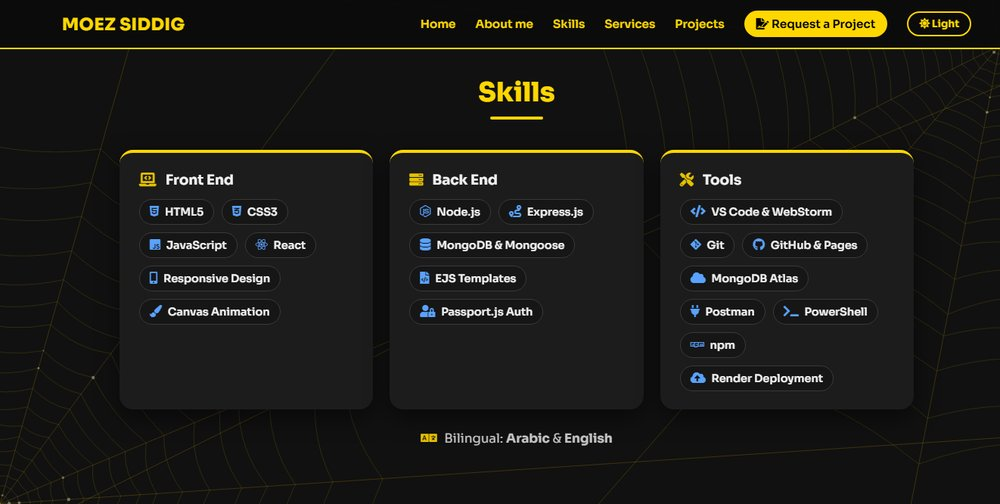
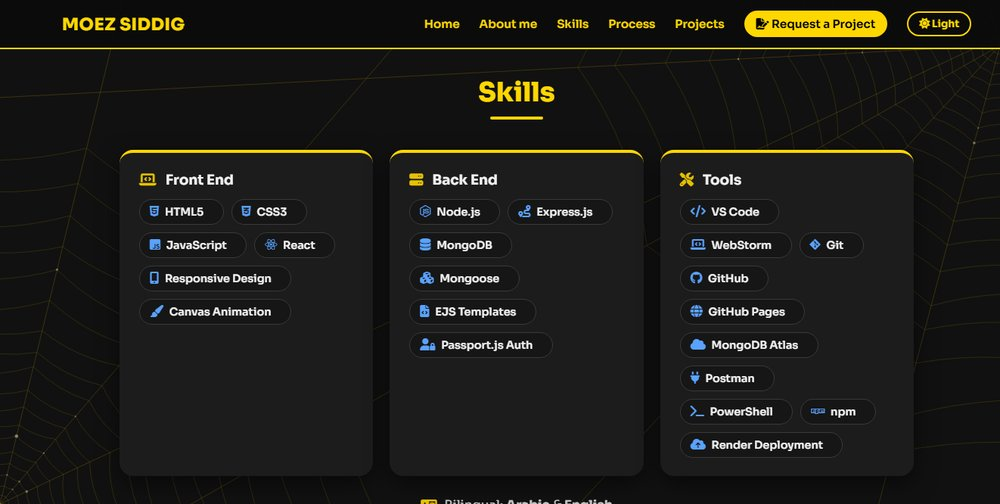
Link every skill to its official site
- 22 skill chips open the official site or MDN docs in a new tab
- Split combined chips (MongoDB/Mongoose, VS Code/WebStorm, GitHub/GitHub Pages)
- Hover: yellow chip, slight lift and a small arrow

diff --git a/index.html b/index.html
@@ -26,7 +26,7 @@
   <!-- Font Awesome icons and main CSS file -->
   <link rel="stylesheet" href="https://cdnjs.cloudflare.com/ajax/libs/font-awesome/6.5.2/css/all.min.css" />
   <!-- ?v= changes with each release so browsers never mix old cached files with the new page -->
-  <link rel="stylesheet" href="css/style.css?v=2026-11-17m"/>
+  <link rel="stylesheet" href="css/style.css?v=2026-11-17n"/>
 </head>
 <body>
   <!-- Apply the saved dark mode before the page is drawn (avoids a light flash) -->
@@ -141,38 +141,42 @@
     <div class="skills-grid">
       <div class="skill-group">
         <h3><i class="fas fa-laptop-code"></i> Front End</h3>
+        <!-- Each skill opens its official website or documentation in a new tab -->
         <ul>
-          <li><i class="fab fa-html5"></i> HTML5</li>
-          <li><i class="fab fa-css3-alt"></i> CSS3</li>
-          <li><i class="fab fa-js-square"></i> JavaScript</li>
-          <li><i class="fab fa-react"></i> React</li>
-          <li><i class="fas fa-mobile-alt"></i> Responsive Design</li>
-          <li><i class="fas fa-paint-brush"></i> Canvas Animation</li>
+          <li><a href="https://developer.mozilla.org/en-US/docs/Web/HTML" target="_blank" rel="noopener" title="HTML on MDN"><i class="fab fa-html5"></i> HTML5</a></li>
+          <li><a href="https://developer.mozilla.org/en-US/docs/Web/CSS" target="_blank" rel="noopener" title="CSS on MDN"><i class="fab fa-css3-alt"></i> CSS3</a></li>
+          <li><a href="https://developer.mozilla.org/en-US/docs/Web/JavaScript" target="_blank" rel="noopener" title="JavaScript on MDN"><i class="fab fa-js-square"></i> JavaScript</a></li>
+          <li><a href="https://react.dev/" target="_blank" rel="noopener" title="React official site"><i class="fab fa-react"></i> React</a></li>
+          <li><a href="https://developer.mozilla.org/en-US/docs/Learn_web_development/Core/CSS_layout/Responsive_Design" target="_blank" rel="noopener" title="Responsive design on MDN"><i class="fas fa-mobile-alt"></i> Responsive Design</a></li>
+          <li><a href="https://developer.mozilla.org/en-US/docs/Web/API/Canvas_API" target="_blank" rel="noopener" title="Canvas API on MDN"><i class="fas fa-paint-brush"></i> Canvas Animation</a></li>
         </ul>
       </div>
 
       <div class="skill-group">
         <h3><i class="fas fa-server"></i> Back End</h3>
         <ul>
-          <li><i class="fab fa-node-js"></i> Node.js</li>
-          <li><i class="fas fa-route"></i> Express.js</li>
-          <li><i class="fas fa-database"></i> MongoDB &amp; Mongoose</li>
-          <li><i class="fas fa-file-code"></i> EJS Templates</li>
-          <li><i class="fas fa-user-lock"></i> Passport.js Auth</li>
+          <li><a href="https://nodejs.org/" target="_blank" rel="noopener" title="Node.js official site"><i class="fab fa-node-js"></i> Node.js</a></li>
+          <li><a href="https://expressjs.com/" target="_blank" rel="noopener" title="Express.js official site"><i class="fas fa-route"></i> Express.js</a></li>
+          <li><a href="https://www.mongodb.com/" target="_blank" rel="noopener" title="MongoDB official site"><i class="fas fa-database"></i> MongoDB</a></li>
+          <li><a href="https://mongoosejs.com/" target="_blank" rel="noopener" title="Mongoose official site"><i class="fas fa-cubes"></i> Mongoose</a></li>
+          <li><a href="https://ejs.co/" target="_blank" rel="noopener" title="EJS official site"><i class="fas fa-file-code"></i> EJS Templates</a></li>
+          <li><a href="https://www.passportjs.org/" target="_blank" rel="noopener" title="Passport.js official site"><i class="fas fa-user-lock"></i> Passport.js Auth</a></li>
         </ul>
       </div>
 
       <div class="skill-group">
         <h3><i class="fas fa-tools"></i> Tools</h3>
         <ul>
-          <li><i class="fas fa-code"></i> VS Code &amp; WebStorm</li>
-          <li><i class="fab fa-git-alt"></i> Git</li>
-          <li><i class="fab fa-github"></i> GitHub &amp; Pages</li>
-          <li><i class="fas fa-cloud"></i> MongoDB Atlas</li>
-          <li><i class="fas fa-plug"></i> Postman</li>
-          <li><i class="fas fa-terminal"></i> PowerShell</li>
-          <li><i class="fab fa-npm"></i> npm</li>
-          <li><i class="fas fa-cloud-upload-alt"></i> Render Deployment</li>
+          <li><a href="https://code.visualstudio.com/" target="_blank" rel="noopener" title="Visual Studio Code"><i class="fas fa-code"></i> VS Code</a></li>
+          <li><a href="https://www.jetbrains.com/webstorm/" target="_blank" rel="noopener" title="WebStorm by JetBrains"><i class="fas fa-laptop-code"></i> WebStorm</a></li>
+          <li><a href="https://git-scm.com/" target="_blank" rel="noopener" title="Git official site"><i class="fab fa-git-alt"></i> Git</a></li>
+          <li><a href="https://github.com/" target="_blank" rel="noopener" title="GitHub"><i class="fab fa-github"></i> GitHub</a></li>
+          <li><a href="https://pages.github.com/" target="_blank" rel="noopener" title="GitHub Pages"><i class="fas fa-globe"></i> GitHub Pages</a></li>
+          <li><a href="https://www.mongodb.com/atlas" target="_blank" rel="noopener" title="MongoDB Atlas"><i class="fas fa-cloud"></i> MongoDB Atlas</a></li>
+          <li><a href="https://www.postman.com/" target="_blank" rel="noopener" title="Postman official site"><i class="fas fa-plug"></i> Postman</a></li>
+          <li><a href="https://learn.microsoft.com/powershell/" target="_blank" rel="noopener" title="PowerShell documentation"><i class="fas fa-terminal"></i> PowerShell</a></li>
+          <li><a href="https://docs.npmjs.com/" target="_blank" rel="noopener" title="npm documentation"><i class="fab fa-npm"></i> npm</a></li>
+          <li><a href="https://render.com/" target="_blank" rel="noopener" title="Render official site"><i class="fas fa-cloud-upload-alt"></i> Render Deployment</a></li>
         </ul>
       </div>
     </div>
@@ -401,7 +405,7 @@
   </footer>
 
   <!-- JavaScript Files -->
-  <script src="js/spider-web.js?v=2026-11-17m"></script>
-  <script src="js/project.js?v=2026-11-17m"></script>
+  <script src="js/spider-web.js?v=2026-11-17n"></script>
+  <script src="js/project.js?v=2026-11-17n"></script>
 </body>
 </html>

diff --git a/css/style.css b/css/style.css
@@ -459,7 +459,8 @@ section {
     gap: 10px;
 }
 
-.skill-group li {
+/* Each skill is a link to its official site, styled as a chip */
+.skill-group li a {
     display: inline-flex;
     align-items: center;
     gap: 8px;
@@ -470,11 +471,36 @@ section {
     color: var(--text);
     font-size: 0.9em;
     font-weight: 600;
+    text-decoration: none;
+    transition: border-color 0.2s ease, background-color 0.2s ease, transform 0.2s ease;
 }
 
-.skill-group li i {
+.skill-group li a i {
     color: var(--accent);
     font-size: 1.1em;
+}
+
+/* Small arrow appears on hover to show it opens a site */
+.skill-group li a::after {
+    content: "\2197";
+    font-size: 0.8em;
+    color: var(--yellow-dark);
+    opacity: 0;
+    margin-left: -4px;
+    transition: opacity 0.2s ease, margin-left 0.2s ease;
+}
+
+.skill-group li a:hover,
+.skill-group li a:focus-visible {
+    border-color: var(--yellow);
+    background-color: rgba(255, 215, 0, 0.15);
+    transform: translateY(-2px);
+}
+
+.skill-group li a:hover::after,
+.skill-group li a:focus-visible::after {
+    opacity: 1;
+    margin-left: 0;
 }
 
 .languages {
